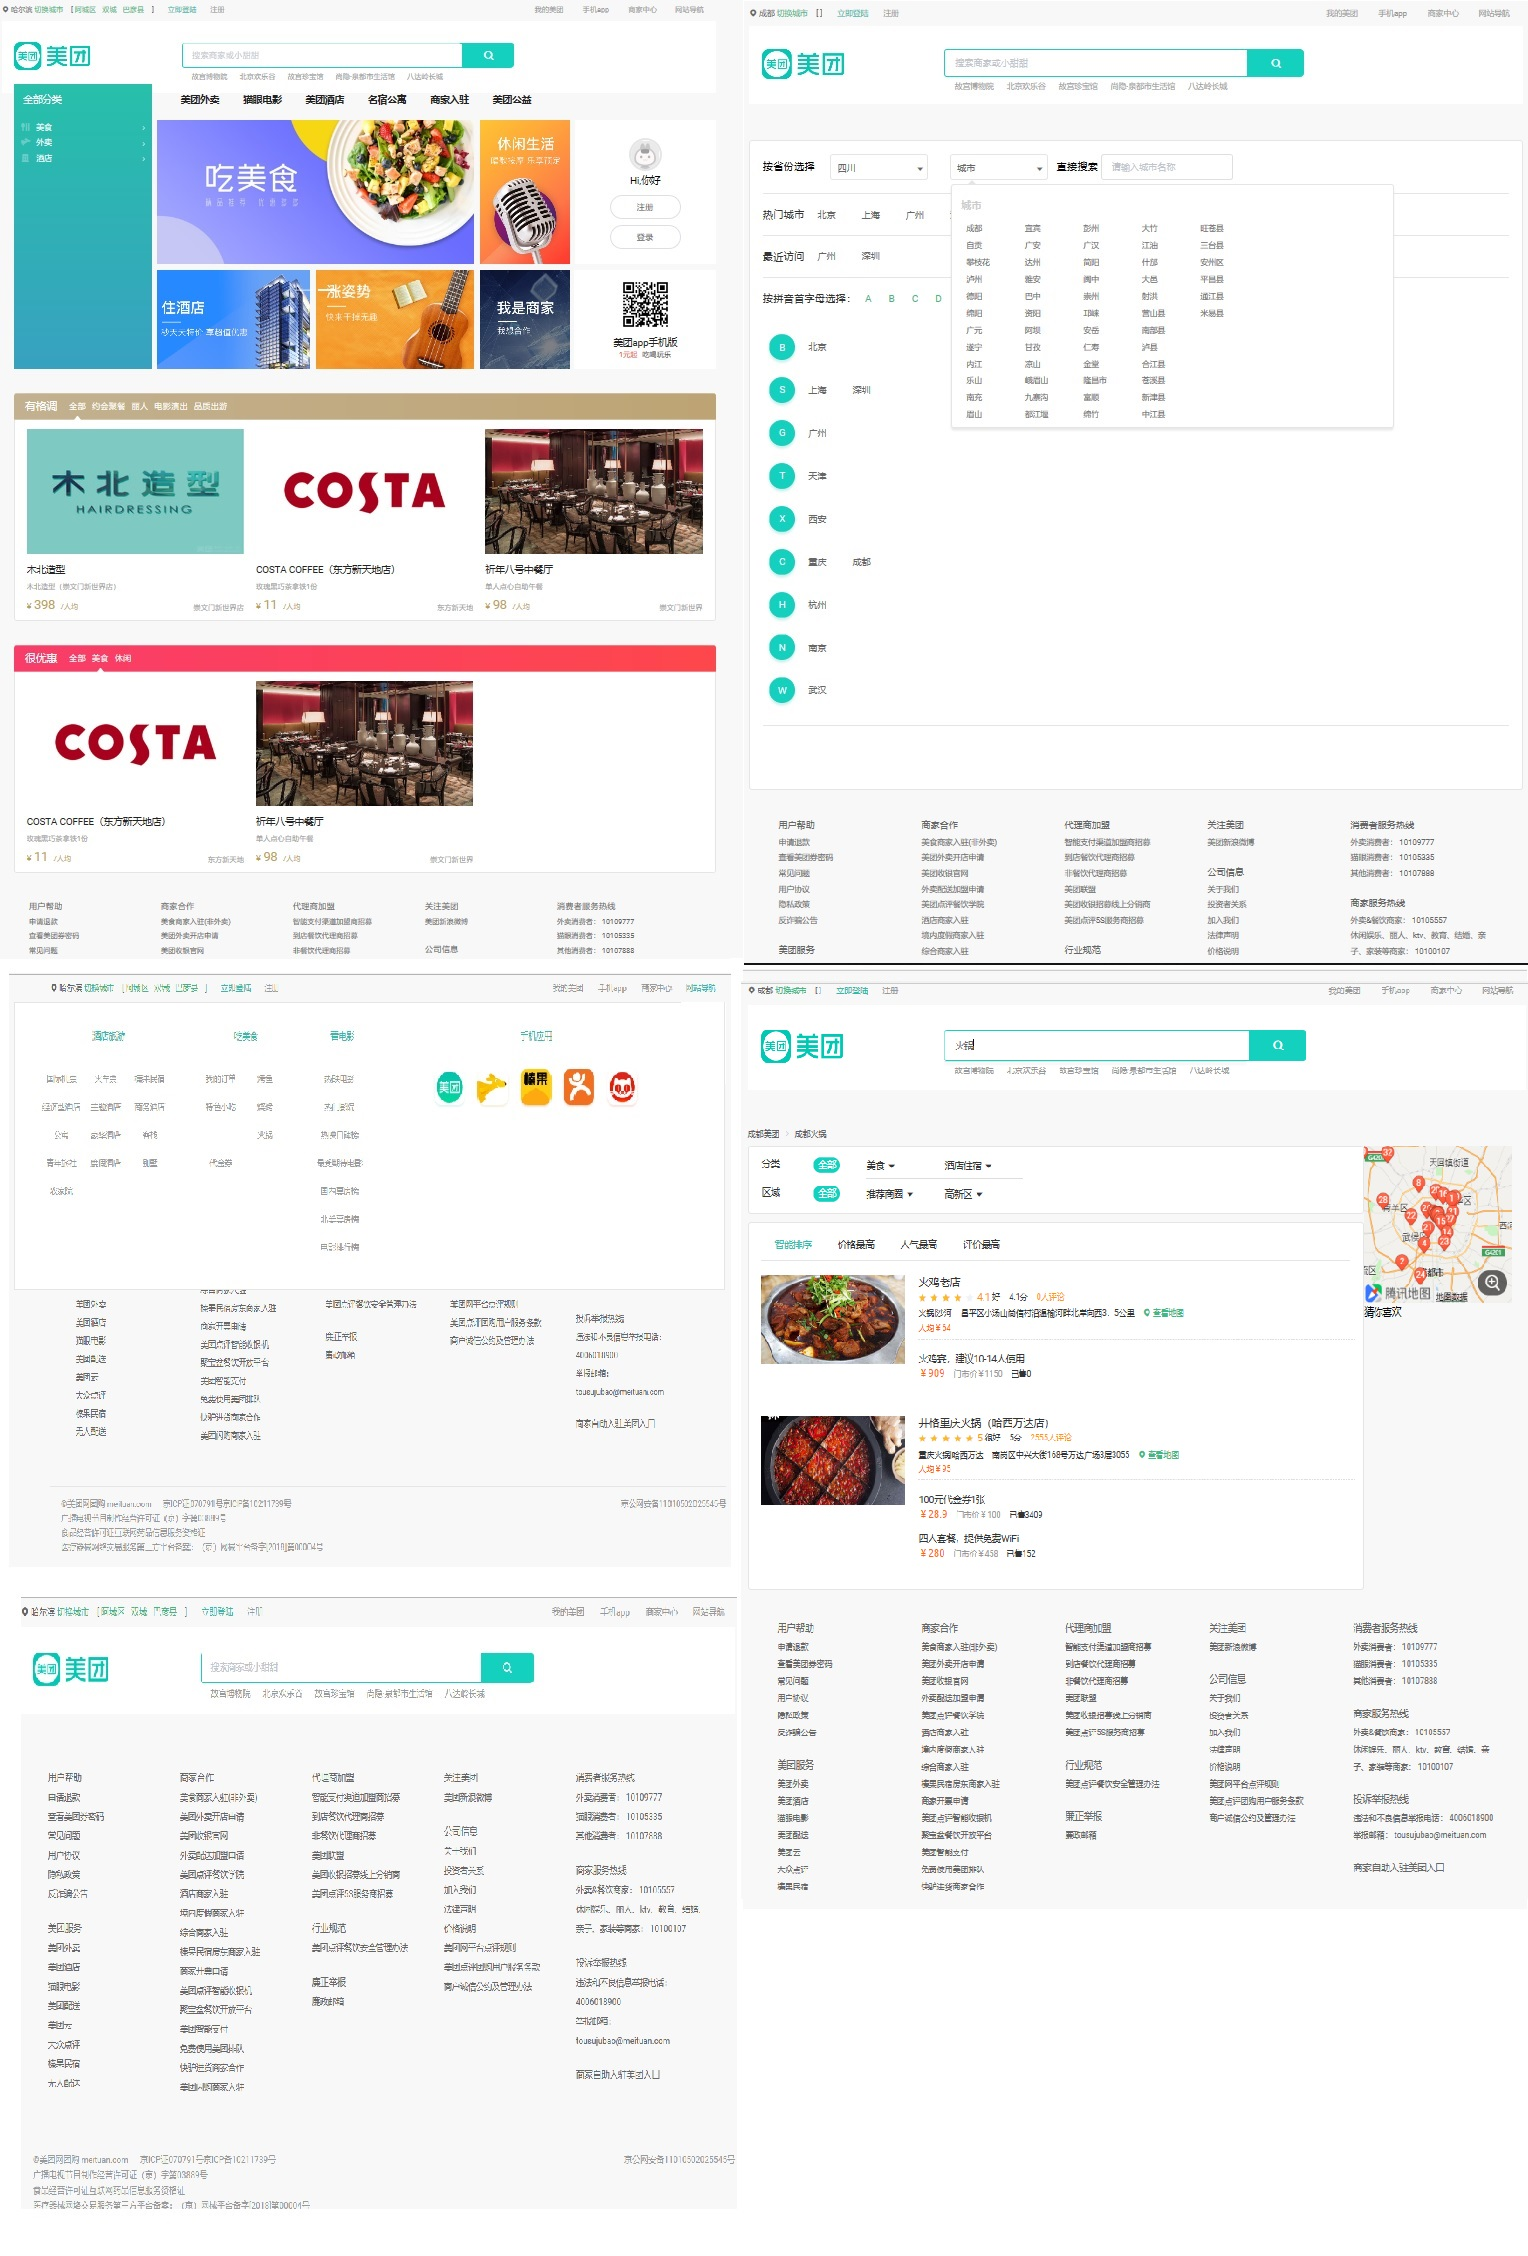
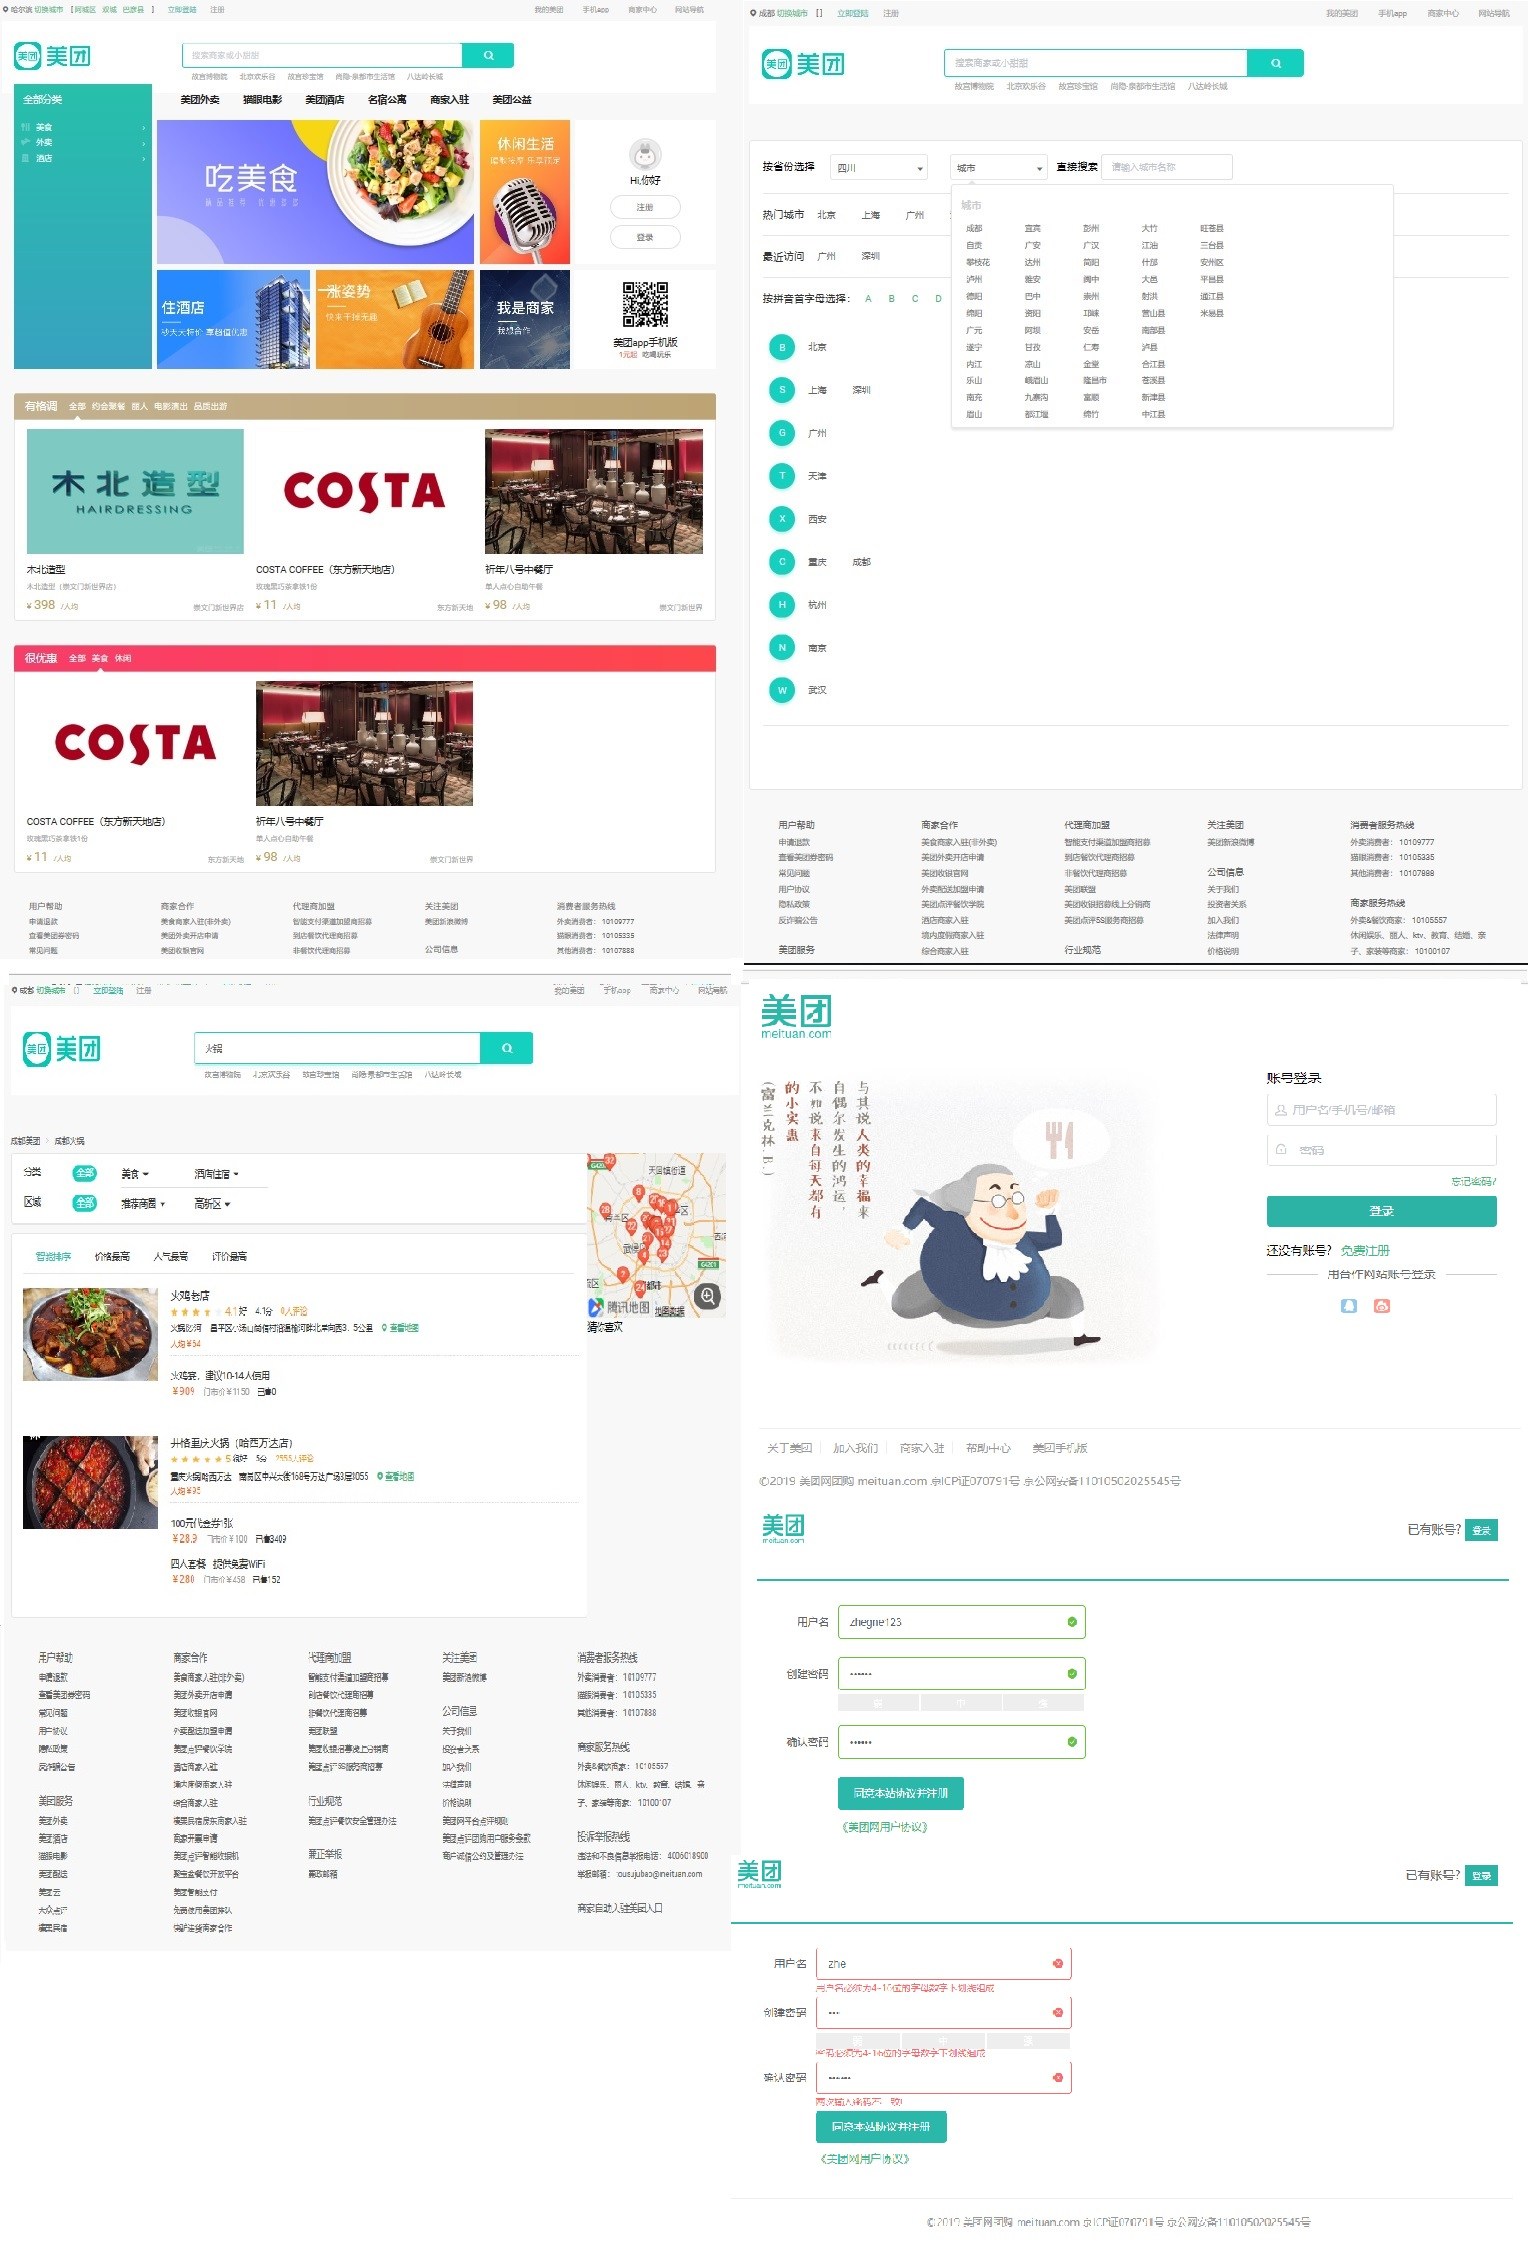
register page commit

diff --git a/src/page/register.vue b/src/page/register.vue
@@ -1,10 +1,125 @@
 <template>
-    <div>
-        register
+  <div class="page-register">
+    <div class="header">
+      <header>
+        <router-link :to="{name: 'index'}" class="site-logo">
+          <img src="@/assets/img/logo.png" alt="logo">
+        </router-link>
+        <div class="login">
+          <span>已有账号?</span>
+          <router-link :to="{name: 'login'}">登录</router-link>
+        </div>
+      </header>
     </div>
+    <div class="content">
+      <el-form
+        :model="registerForm"
+        status-icon
+        :rules="rules"
+        ref="registerForm"
+        label-width="100px"
+        class="demo-ruleForm"
+      >
+        <el-form-item label="用户名" prop="userName">
+          <el-input type="userName" v-model="registerForm.userName" autocomplete="off"></el-input>
+        </el-form-item>
+        <el-form-item label="创建密码" prop="password">
+          <el-input type="password" v-model="registerForm.password" autocomplete="off" @input="input"></el-input>
+          <div class="pw-strength">
+            <div :class="['bar',strengthClass]">
+                <div class="letter">
+                    <span>弱</span>
+                    <span>中</span>
+                    <span>强</span>
+                </div>
+            </div>
+          </div>
+        </el-form-item>
+        <el-form-item label="确认密码" prop="rePassword">
+          <el-input type="password" v-model="registerForm.rePassword" autocomplete="off"></el-input>
+        </el-form-item>
+        <el-form-item>
+          <el-button class="submit" type="primary" @click="submitForm('registerForm')">同意本站协议并注册</el-button>
+          <p><a>《美团网用户协议》</a></p>
+        </el-form-item>
+      </el-form>
+    </div>
+    <footer>
+            <p>©2019 美团网团购 meituan.com 京ICP证070791号 京公网安备11010502025545号</p>
+    </footer>
+  </div>
 </template>
 <script>
 export default {
-    
-}
+  data() {
+    //   校验用户名
+    var validateUser =(rule,value,callback) => {
+        if(value ===""){
+            callback(new Error("请输入用户名"));
+        }else if(value.length < 4 || value.length > 16){
+            callback(new Error("用户名必须为4-16位的字母数字下划线组成"));
+        } else {
+            callback();
+        }
+    }
+    //   校验密码
+    var validatePass = (rule, value, callback) => {
+      if (value === "") {
+        callback(new Error("请输入密码"));
+      } else if(value.length < 4 || value.length > 16){
+          callback(new Error("密码必须为4-16位的字母数字下划线组成"));
+      }else {
+        if (this.registerForm.rePassword !== "") {
+          this.$refs.registerForm.validateField("rePassword");
+        }
+        callback();
+      }
+    };
+    // 校验在此输入密码
+    var validatePass2 = (rule, value, callback) => {
+      if (value === "") {
+        callback(new Error("请再次输入密码"));
+      } else if (value !== this.registerForm.password) {
+        callback(new Error("两次输入密码不一致!"));
+      } else {
+        callback();
+      }
+    };
+    return {
+      registerForm: {
+        userName: "",
+        password: "",
+        rePassword: ""
+      },
+      strengthClass: "",
+      rules: {
+          password: [
+            { validator: validatePass, trigger: 'blur' }
+          ],
+          rePassword: [
+            { validator: validatePass2, trigger: 'blur' }
+          ],
+          userName: [
+            { validator: validateUser, trigger: 'blur' }
+          ]
+        }
+    };
+  },
+  methods: {
+    submitForm() {},
+    input(){
+    //   let regNtr = ^[0-9a-zA-Z_]{1,}$
+    //   let regNum = /[0-9a-zA-Z_]+/g
+    //   let reg = /_/g    
+      if(this.registerForm.password.length > 10){
+          this.strengthClass = "strong"
+      } 
+    //   else if (this.password.length > 6 &&)
+  }
+  },
+  
+};
 </script>
+<style lang="scss">
+@import "@/assets/css/register/index.scss";
+</style>

diff --git a/src/page/login.vue b/src/page/login.vue
@@ -1,20 +1,21 @@
 <template>
     <div class="page-login">
         <div class="login-header">
-            <router-link :to="{name: 'index'}">logo<img src="" alt=""></router-link>
+            <router-link :to="{name: 'index'}"><img src="@/assets/img/logo.png" alt=""></router-link>
         </div>
         <div class="login-panel">
             <div class="banner">
                 <img src="https://s0.meituan.net/bs/file/?f=fe-sso-fs:build/page/static/banner/www.jpg" alt="">
             </div>
             <div class="form">
+                <h4 v-show="error" class="tips">{{error}}</h4>
                 <p><span>账号登录</span></p>
-                <el-input v-model="userName" placeholder="用户名/手机号/邮箱" prefix-icon="profile"></el-input>
-                <el-input v-model="password" type="password" placeholder="  密码" prefix-icon="password"></el-input>
+                <el-input :class="{error: error && !userName}" v-model="userName" placeholder="用户名/手机号/邮箱" prefix-icon="profile"></el-input>
+                <el-input :class="{error: error && !password}" v-model="password" type="password" placeholder="  密码" prefix-icon="password"></el-input>
                 <div class="foot">
                     <a href="#">忘记密码?</a>
                 </div>
-                <el-button class="btn-login">登录</el-button>
+                <el-button class="btn-login" @click="submit">登录</el-button>
                 <p class="reg">
                     <span>还没有账号？</span>
                     <router-link :to="{name: 'register'}">免费注册</router-link>
@@ -28,15 +29,48 @@
         </div>
             </div>
         </div>
-        <div class="footer"></div>
+        <footer class="footer">
+            <ul>
+                <li><a href="#">关于美团</a></li>
+                <li><a href="#">加入我们</a></li>
+                <li><a href="#">商家入驻</a></li>
+                <li><a href="#">帮助中心</a></li>
+                <li><a href="#">美团手机版</a></li>
+            </ul>
+            <p>©2019 美团网团购 meituan.com 京ICP证070791号 京公网安备11010502025545号</p>
+        </footer>
     </div>
 </template>
 <script>
+import api from "@/api/index.js"
 export default {
     data(){
         return {
             userName: '',
-            password: ''
+            password: '',
+            error: false
+        }
+    },
+    methods:{
+        submit(){
+            if(!this.userName){
+                this.error = '请输入用户名！'
+                return false
+            }
+            if(!this.password){
+                this.error = '请输入密码！'
+                return false
+            }
+            api.login({params: {
+                userName: this.userName,
+                password: this.password
+            }}).then(res => {
+                if(res.data.status === 'success'){
+                    this.$router.push({name: 'index'})
+                }else{
+                    this.error = res.data.msg
+                }
+            })
         }
     }
 }

diff --git a/src/assets/css/register/index.scss b/src/assets/css/register/index.scss
@@ -47,10 +47,30 @@
     min-height: 300px;
     padding-right: 550px;
     box-sizing: border-box;
-
+    .letter {
+      position: relative;
+      top: 5px;
+      left: 0;
+      span {
+          display: block;
+          float: left;
+          text-align: center;
+          font-size: 12px;
+          height: 20px;
+          line-height: 20px;
+          width: 108px;
+          border-right: 2px solid #fff;
+          background-color: #eee;
+          color: #fff;
+      }
+    }
+    .el-button--primary {
+      background-color: #2bb8aa;
+      border-color: #2bb8aa;
+    }
     .status {
       font-size: 12px;
-      margin-left: 20px;
+      // margin-left: 20px;
       color: #e6a23c;
     }
 

diff --git a/src/router/index.js b/src/router/index.js
@@ -8,7 +8,7 @@ import index from '@/page/index.vue'
 import ChangeCity from '@/page/changeCity.vue'
 import Login from '@/page/login.vue'
 import Register from '@/page/register.vue'
-
+import ProductDeatil from '@/page/productDeatil.vue'
 
 Vue.use(Router)
 
@@ -33,6 +33,11 @@ export default new Router({
         path: '/changeCity',
         name: 'changeCity',
         component: ChangeCity
+      },
+      {
+        path: '/productDeatil',
+        name: 'productDeatil',
+        component: ProductDeatil
       }]
     },
     {

diff --git a/src/components/products/crumbs.vue b/src/components/products/crumbs.vue
@@ -2,11 +2,9 @@
     <div class="m-crumbs">
         <el-breadcrumb separator-class="el-icon-arrow-right">
             <el-breadcrumb-item>{{$store.state.position.name}}美团</el-breadcrumb-item>
-            <el-breadcrumb-item>{{$store.state.position.name}}{{$route.params.name}}</el-breadcrumb-item>
-        
+            <el-breadcrumb-item>{{$store.state.position.name}}{{$route.params.name}}</el-breadcrumb-item>         
         </el-breadcrumb>
-    </div>
-    
+    </div>   
 </template>
 <script>
 export default {

diff --git a/src/api/index.js b/src/api/index.js
@@ -39,7 +39,7 @@ var api = {
     getGroupList(params){
         return axios.get('/list/classify.json',params)
     },
-    // getAreaList
+    // getAreaList 接口数据格式异常暂不调用
     // getAreaList(params){
     //     return axios.get('/list/areaList.json',params)
     // },
@@ -52,5 +52,8 @@ var api = {
     getCurPosition(params){
         return axios.get('/city/getPosition.json',params)
     },
+    login(params){
+        return axios.get('/login', params )
+    }
 }
 export default api

diff --git a/src/page/productDeatil.vue b/src/page/productDeatil.vue
@@ -1,0 +1,24 @@
+<template>    
+    <div>
+        <el-breadcrumb separator-class="el-icon-arrow-right">
+            <el-breadcrumb-item>火锅</el-breadcrumb-item>
+            <el-breadcrumb-item>优惠详情</el-breadcrumb-item>
+        </el-breadcrumb>        
+    </div>
+</template>
+<script>
+import Crumbs from "@/components/products/crumbs.vue"
+export default {
+    data(){
+        return {
+
+        }
+    },
+    created(){
+
+    },
+    components:{
+        Crumbs
+    }
+}
+</script>

diff --git a/src/assets/css/login/index.scss b/src/assets/css/login/index.scss
@@ -30,7 +30,7 @@
           border: 1px solid #f5d8a7;
           border-radius: 2px;
           background: #fff6db;
-          font-size: 12px;
+          font-size: 14px;
           padding-left: 26px;
           >i {
             position: relative;
@@ -171,6 +171,7 @@
             border-right: 1px solid #eee;
           }
           a {
+            text-decoration: none;
             font-size: 13px;
             color: #999;
             &:hover {

diff --git a/src/components/products/item.vue b/src/components/products/item.vue
@@ -5,7 +5,7 @@
         </dt>
         <dd>
             <h3>
-                <router-link :to="{name: 'productDeatil'}">{{meta.title}}</router-link>
+                <router-link :to="{name: 'productDeatil'}" target="_blank">{{meta.title}}</router-link>
             </h3>
             <p >
                 <el-rate

diff --git a/src/components/products/list.vue b/src/components/products/list.vue
@@ -71,6 +71,7 @@ export default {
     api.getProductsList().then(res =>{
       // console.log(res.data.data)
       this.productList = res.data.data
+      
     })
   },
   components: {

diff --git a/src/store.js b/src/store.js
@@ -4,7 +4,8 @@ import Vuex from 'vuex'
 Vue.use(Vuex)
 // 公共数据池
 const state ={
-    position: {}
+    position: {},
+    // productList:[]
 }
 // 操作state
 const mutations ={
